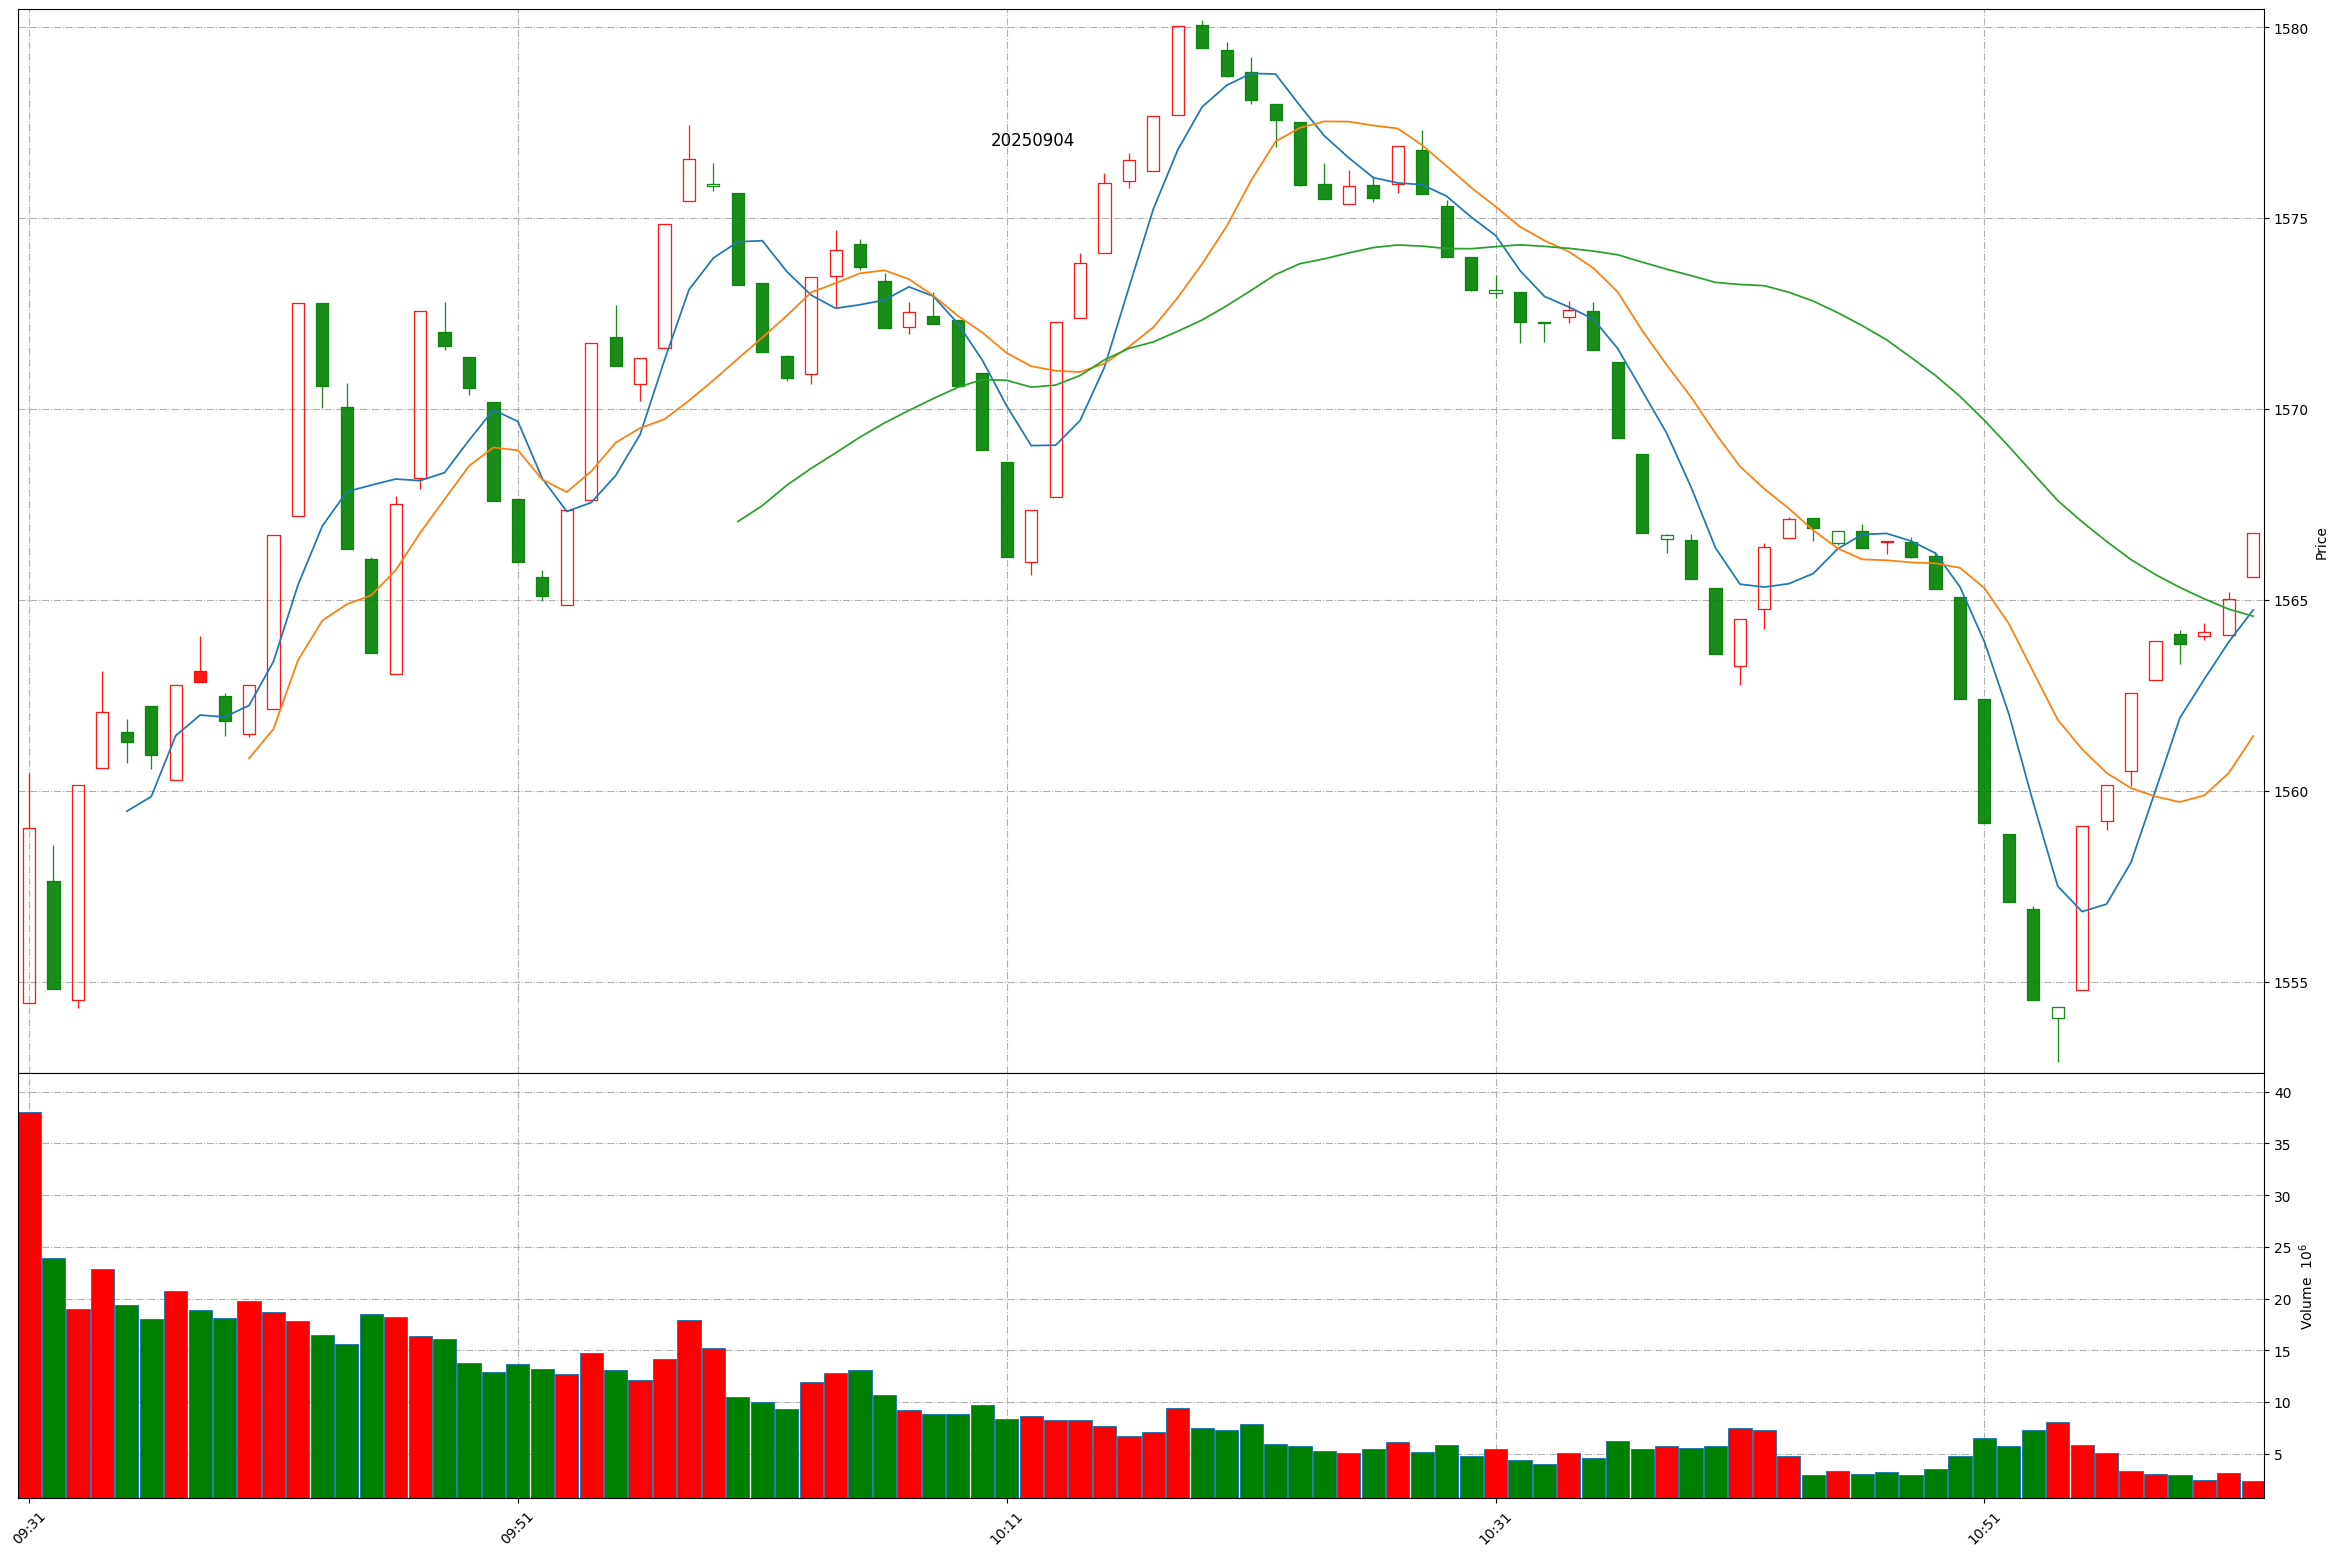
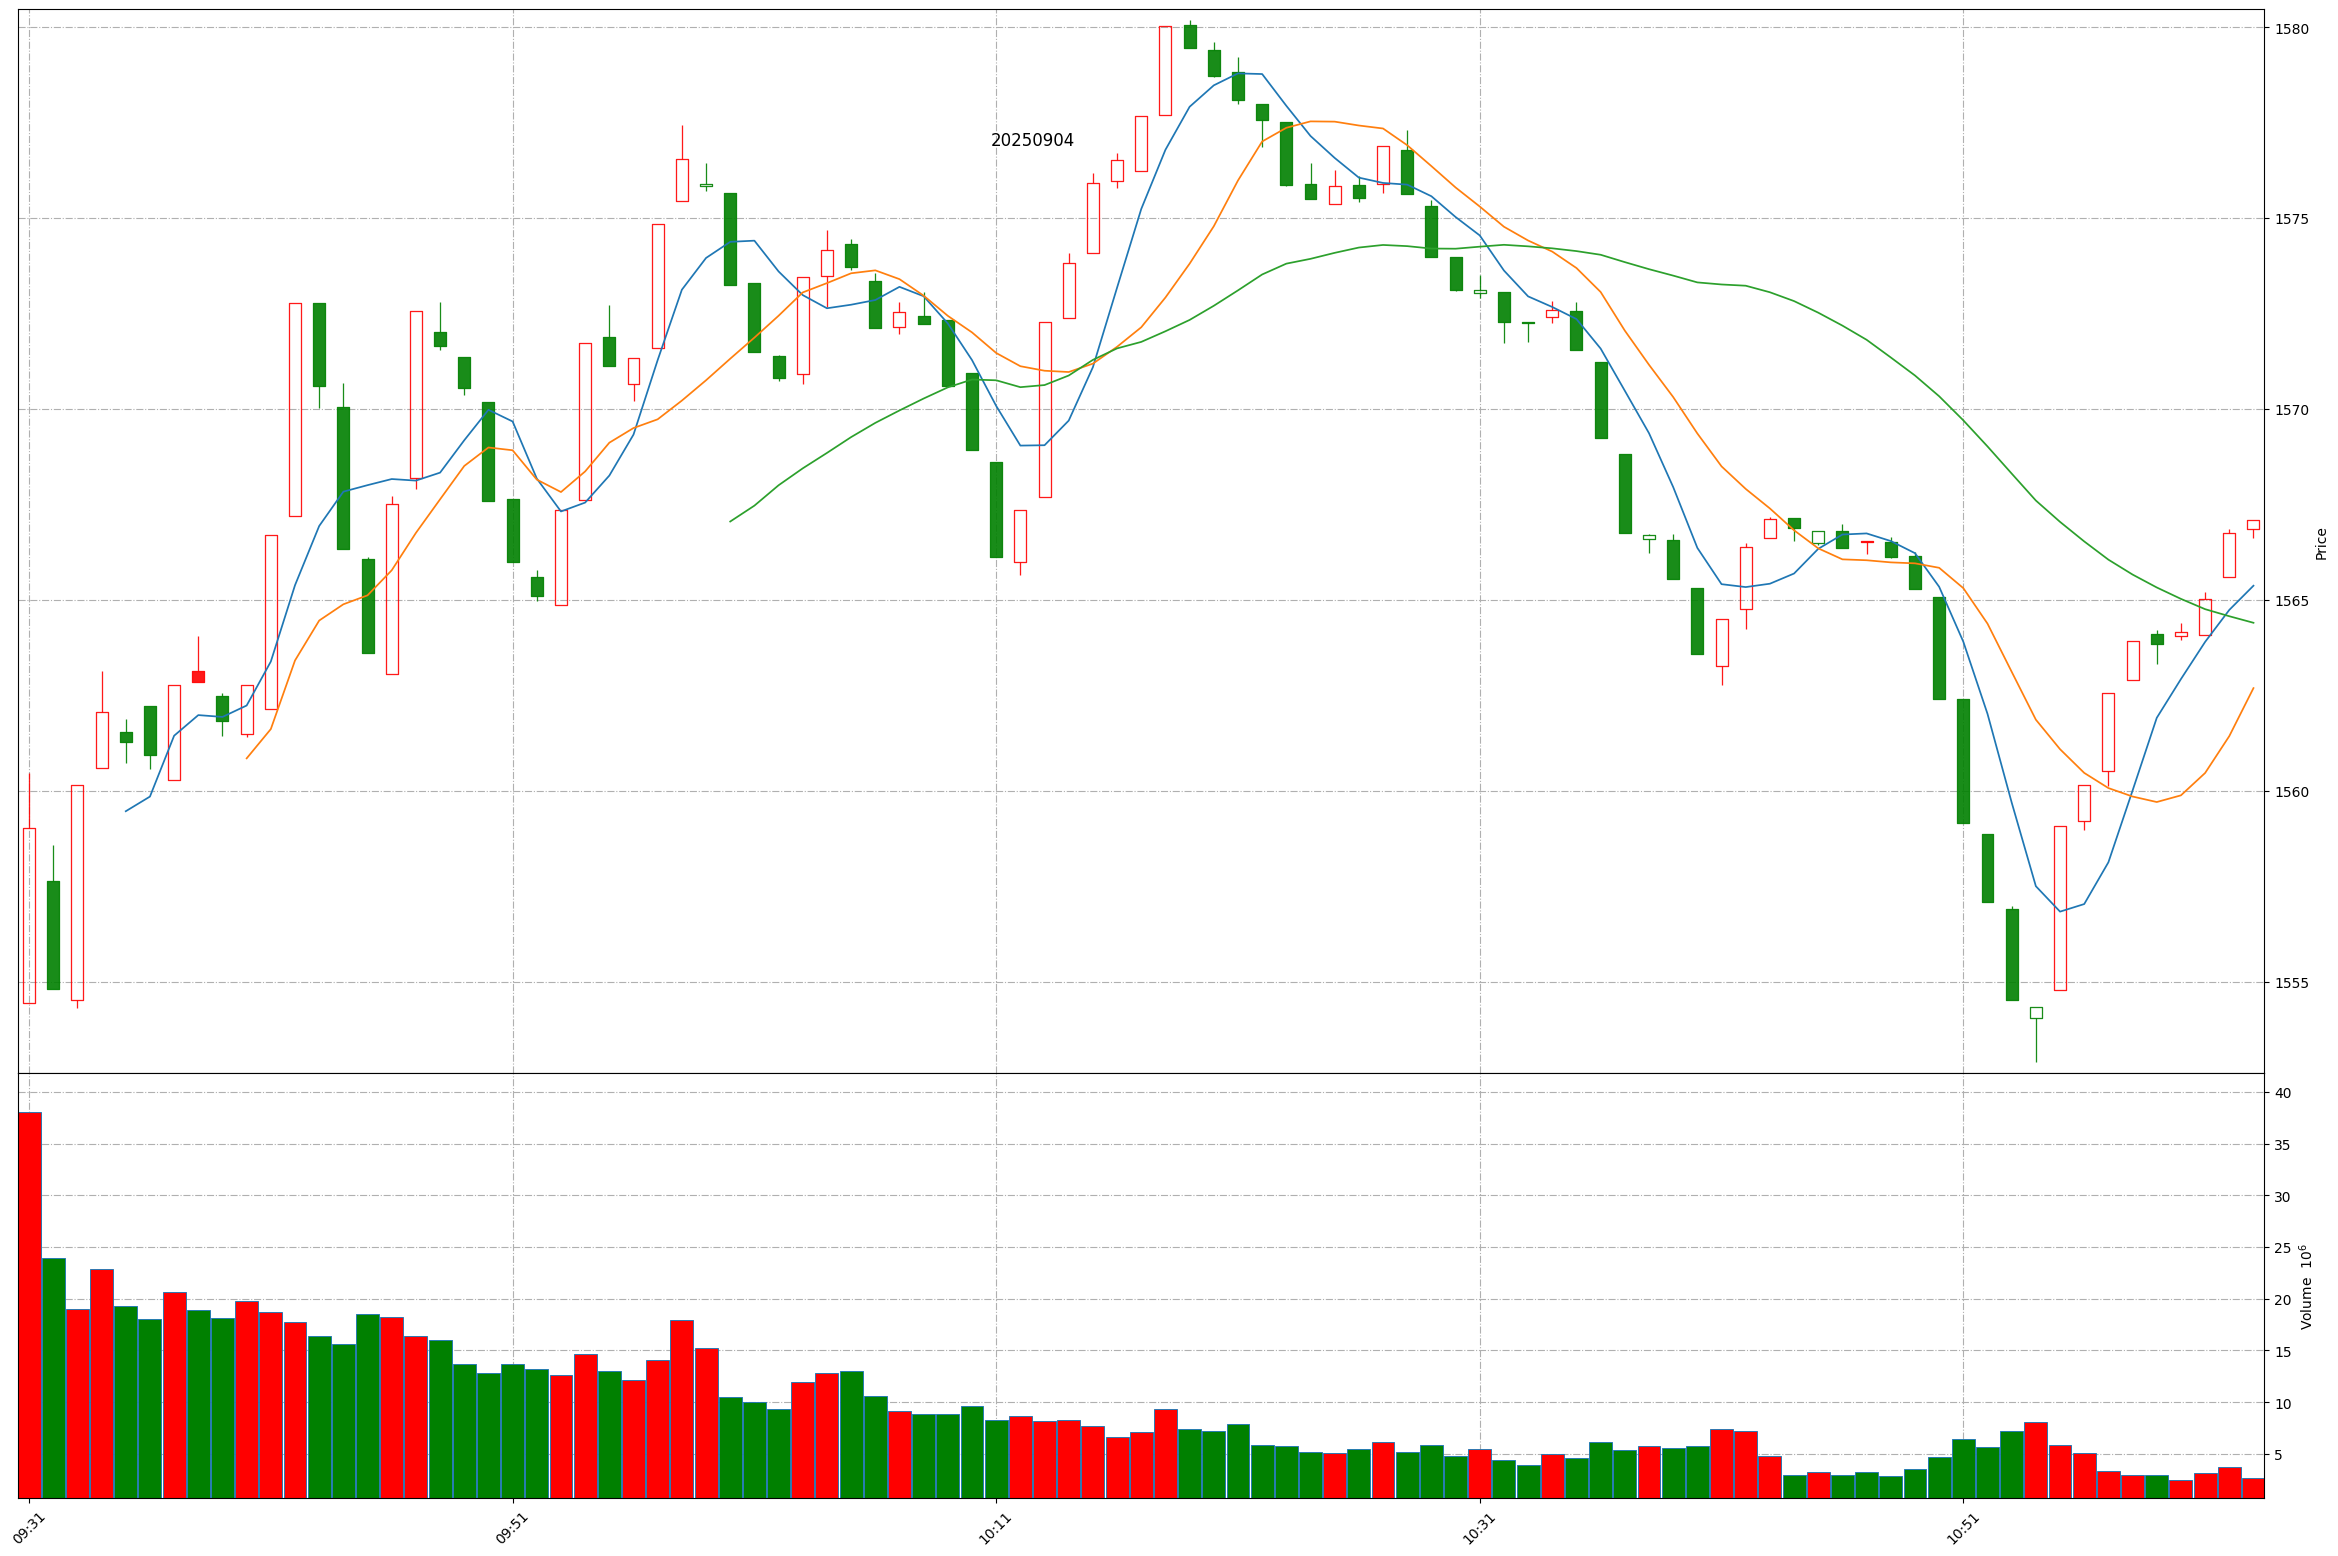
Github action update at 2025-09-04 11:02:55.

diff --git a/README.md b/README.md
@@ -1,11 +1,11 @@
 
 # Daily-A-share-market-quotes 每日 A 股指数（5min 更新）- 20250904
 
-### 上证指数 20250904 11:1
+### 上证指数 20250904 11:2
 ![](./fig/2025/9/20250904-sh000001.png)
 
-### 深证成指 20250904 11:1
+### 深证成指 20250904 11:2
 ![](./fig/2025/9/20250904-sz399001.png)
 
-### 北证50 20250904 11:1
+### 北证50 20250904 11:2
 ![](./fig/2025/9/20250904-bj899050.png)
